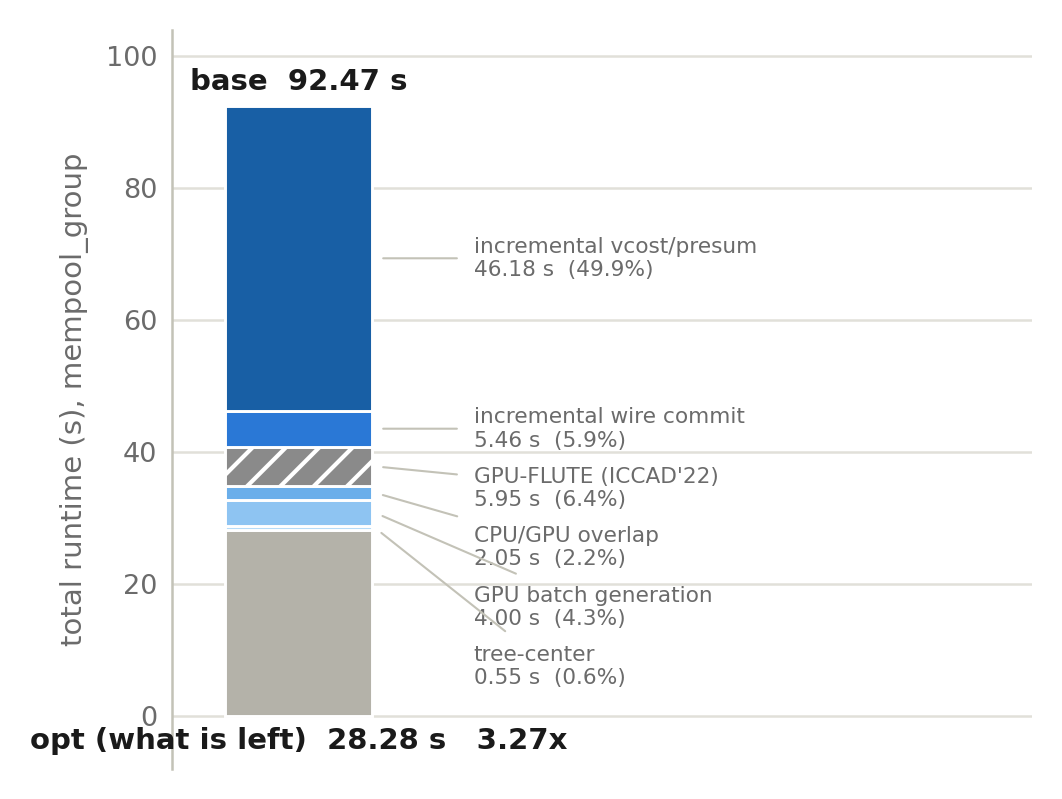
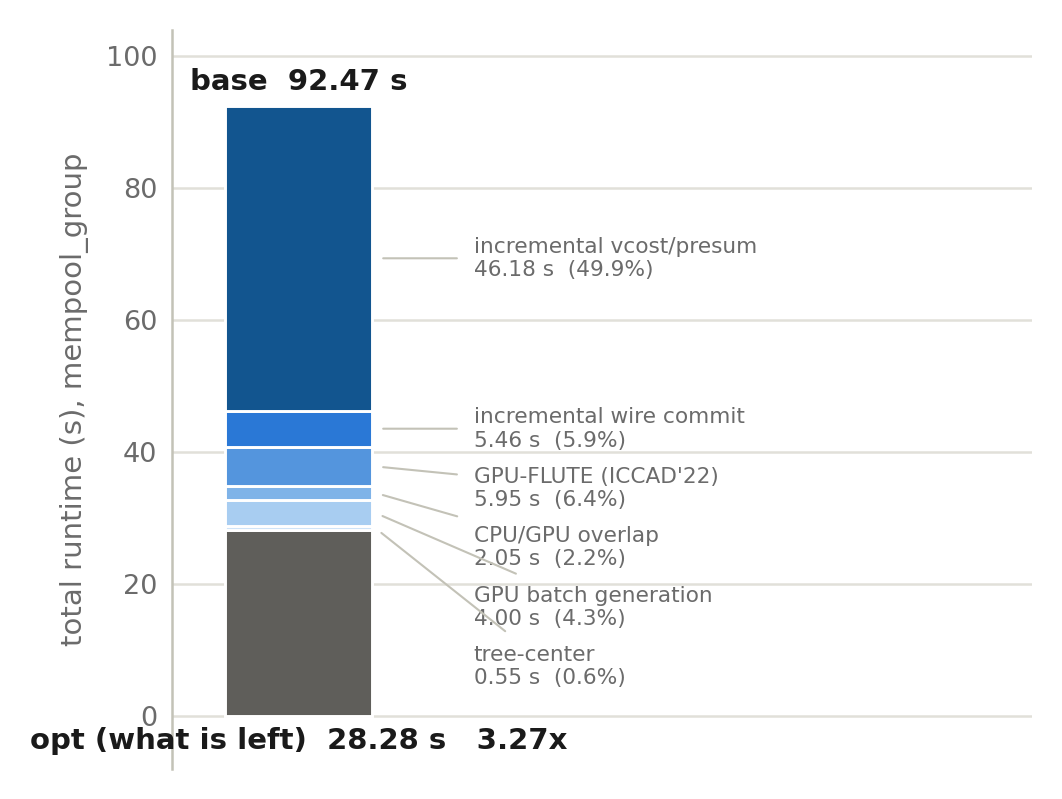
Shade the stacked bar by size instead of hatching it

Changed region(s): [[0.1864, 0.5407, 0.3729, 0.9011]]

diff --git a/visualization/plot_ladder_stacked.py b/visualization/plot_ladder_stacked.py
@@ -1,8 +1,8 @@
 """The same ladder as one bar: base height, cut into what each knob removed.
 
-Bottom block is what is left after everything is on; every block above it is one
-contribution's share of the 64.19 s that went away.  The hatched block is the
-one algorithm taken from the ICCAD'22 paper.
+Blocks run darkest at the top to lightest at the bottom, in the order the
+savings rank, so the eye lands on the biggest one first.  The remainder keeps a
+neutral colour of its own -- it is not a contribution, it is what is left.
 """
 import matplotlib.pyplot as plt
 
@@ -13,14 +13,16 @@ NAME = "ladder_stacked"
 
 # Bottom-up: the remainder first, then the ladder steps in reverse order, so the
 # bar reads in the same order the doc switches the knobs on when read downward.
+# Bottom-up.  Blue darkens with the size of the saving; the remainder at the
+# bottom is grey so it never reads as one more contribution.
 BLOCKS = [
-    ("opt (what is left)",          28.28, "#b4b2a9", None),
-    ("tree-center",                  0.55, "#b6dbf8", None),
-    ("GPU batch generation",         4.00, "#8ec4f2", None),
-    ("CPU/GPU overlap",              2.05, "#6aaeea", None),
-    ("GPU-FLUTE (ICCAD'22)",         5.95, "#8a8a8a", style.PAPER_HATCH),
-    ("incremental wire commit",      5.46, "#2a78d6", None),
-    ("incremental vcost/presum",    46.18, "#185fa5", None),
+    ("opt (what is left)",          28.28, "#5f5e5a"),
+    ("tree-center",                  0.55, "#cfe3f8"),
+    ("GPU batch generation",         4.00, "#a8cdf1"),
+    ("CPU/GPU overlap",              2.05, "#7fb3e8"),
+    ("GPU-FLUTE (ICCAD'22)",         5.95, "#5495dd"),
+    ("incremental wire commit",      5.46, "#2a78d6"),
+    ("incremental vcost/presum",    46.18, "#12558f"),
 ]
 BASE = 92.47
 
@@ -30,8 +32,8 @@ def build():
 
     bottom = 0.0
     anchors = []
-    for label, sec, color, hatch in BLOCKS:
-        ax.bar(0, sec, 0.52, bottom=bottom, color=color, hatch=hatch,
+    for label, sec, color in BLOCKS:
+        ax.bar(0, sec, 0.52, bottom=bottom, color=color,
                edgecolor="white", linewidth=0.7, zorder=3)
         # The remainder block is named by the bold caption under the bar, so it
         # does not get a leader label of its own.
